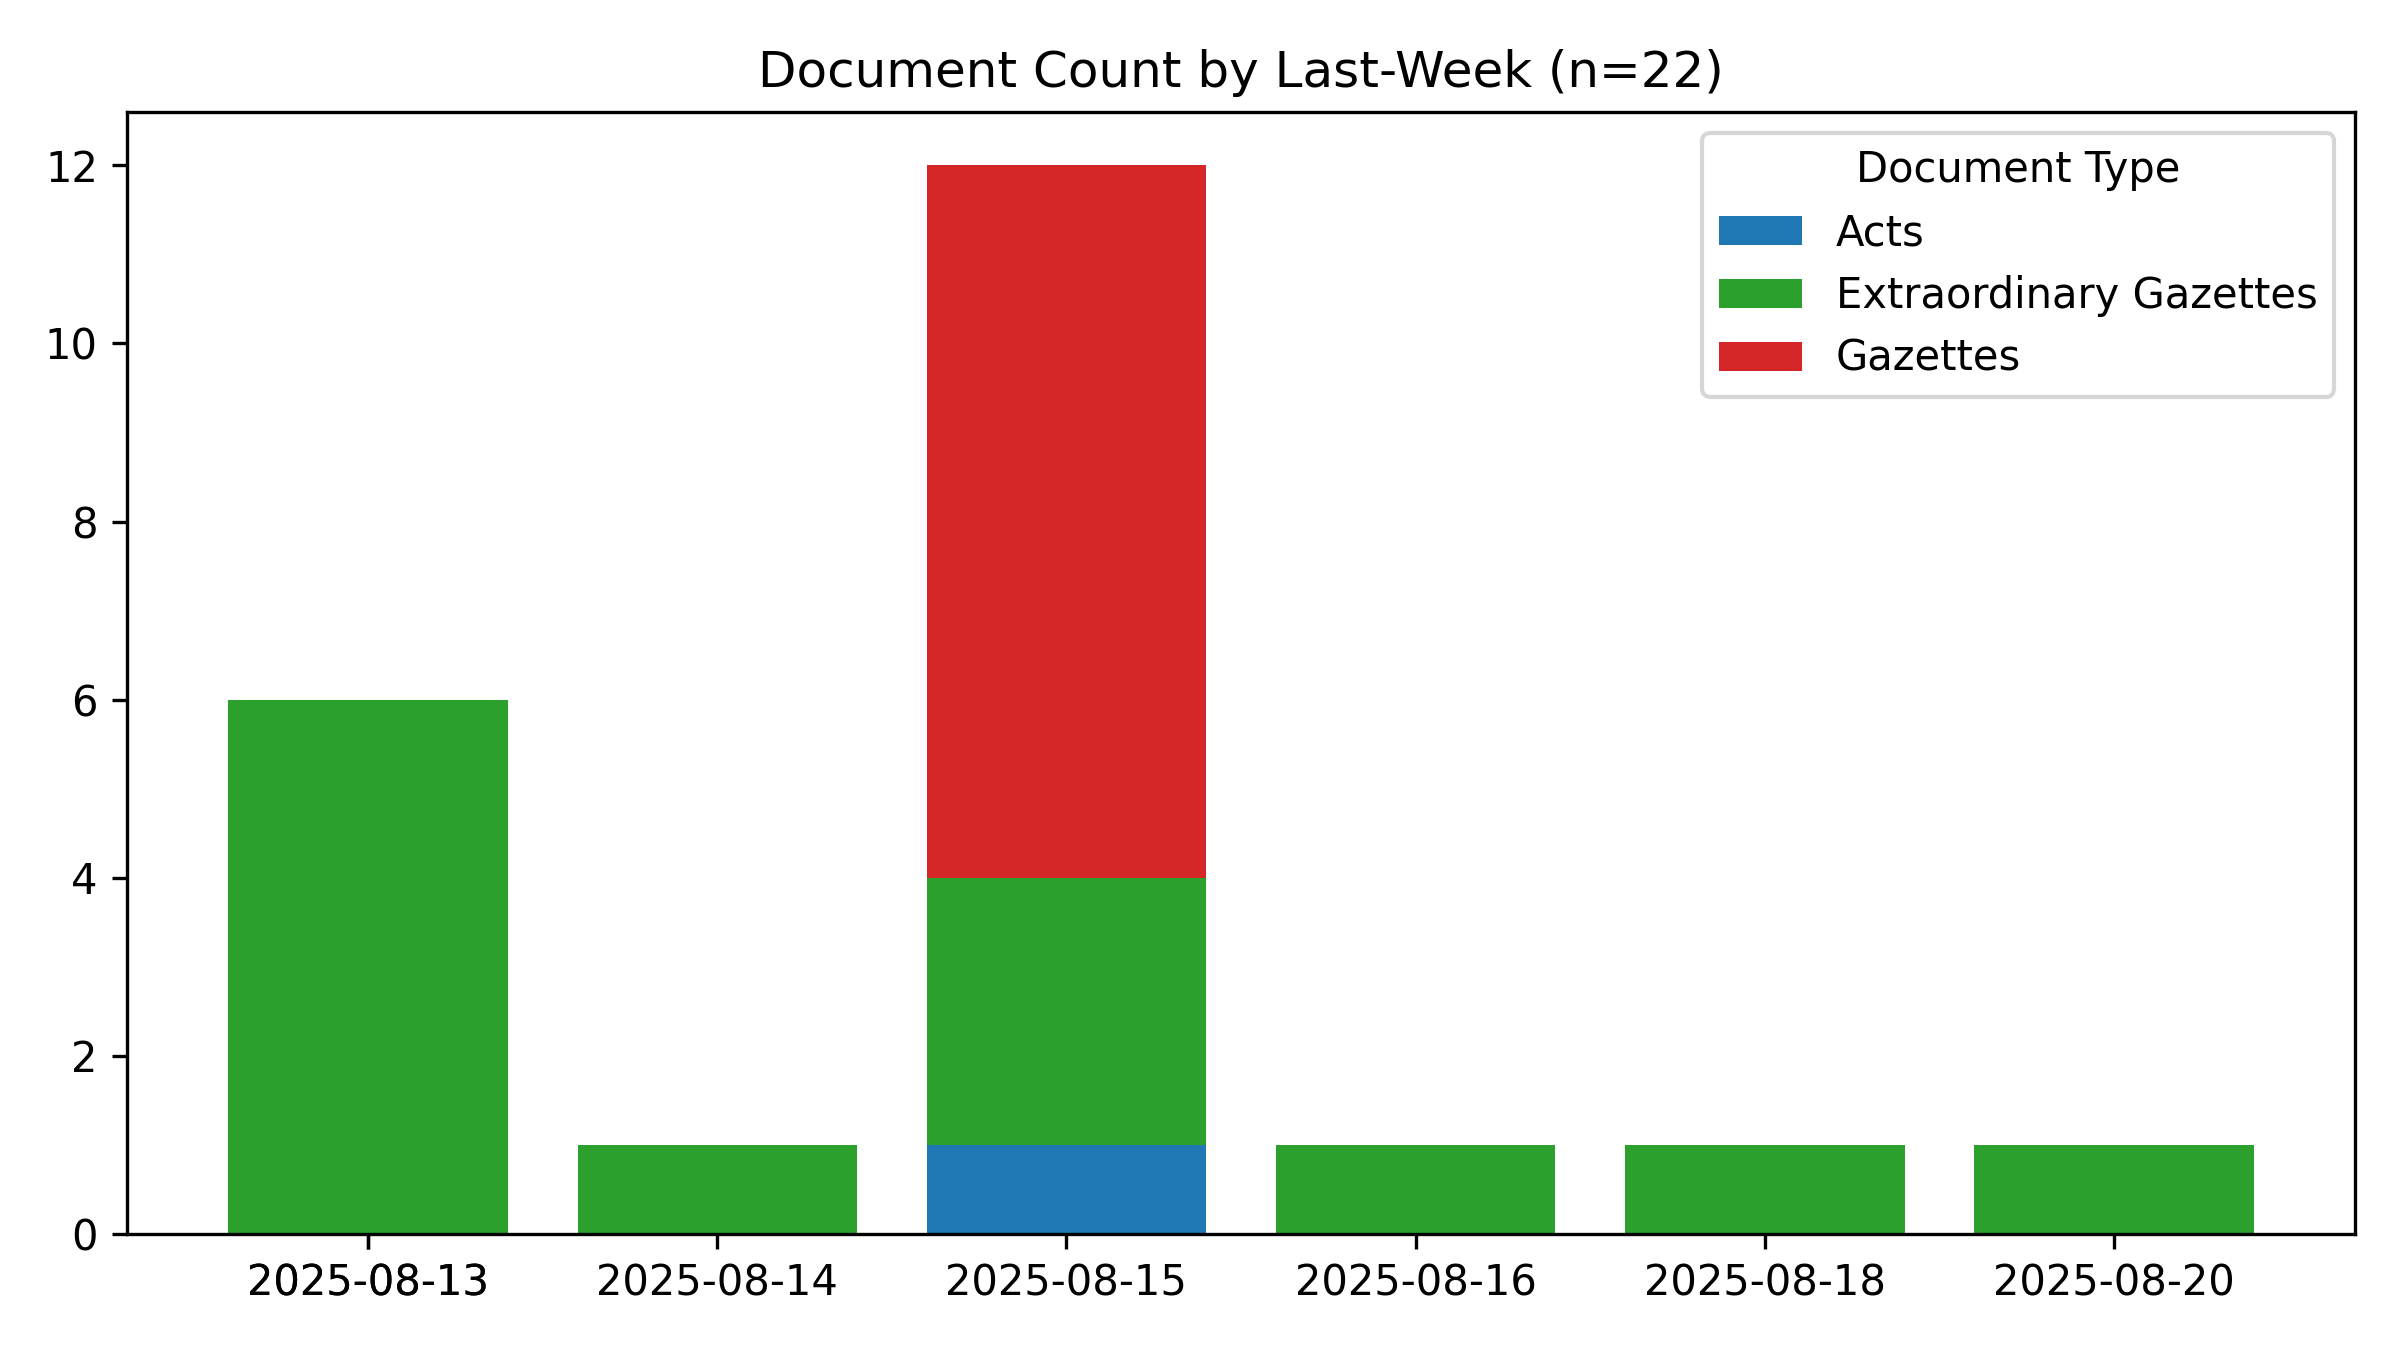
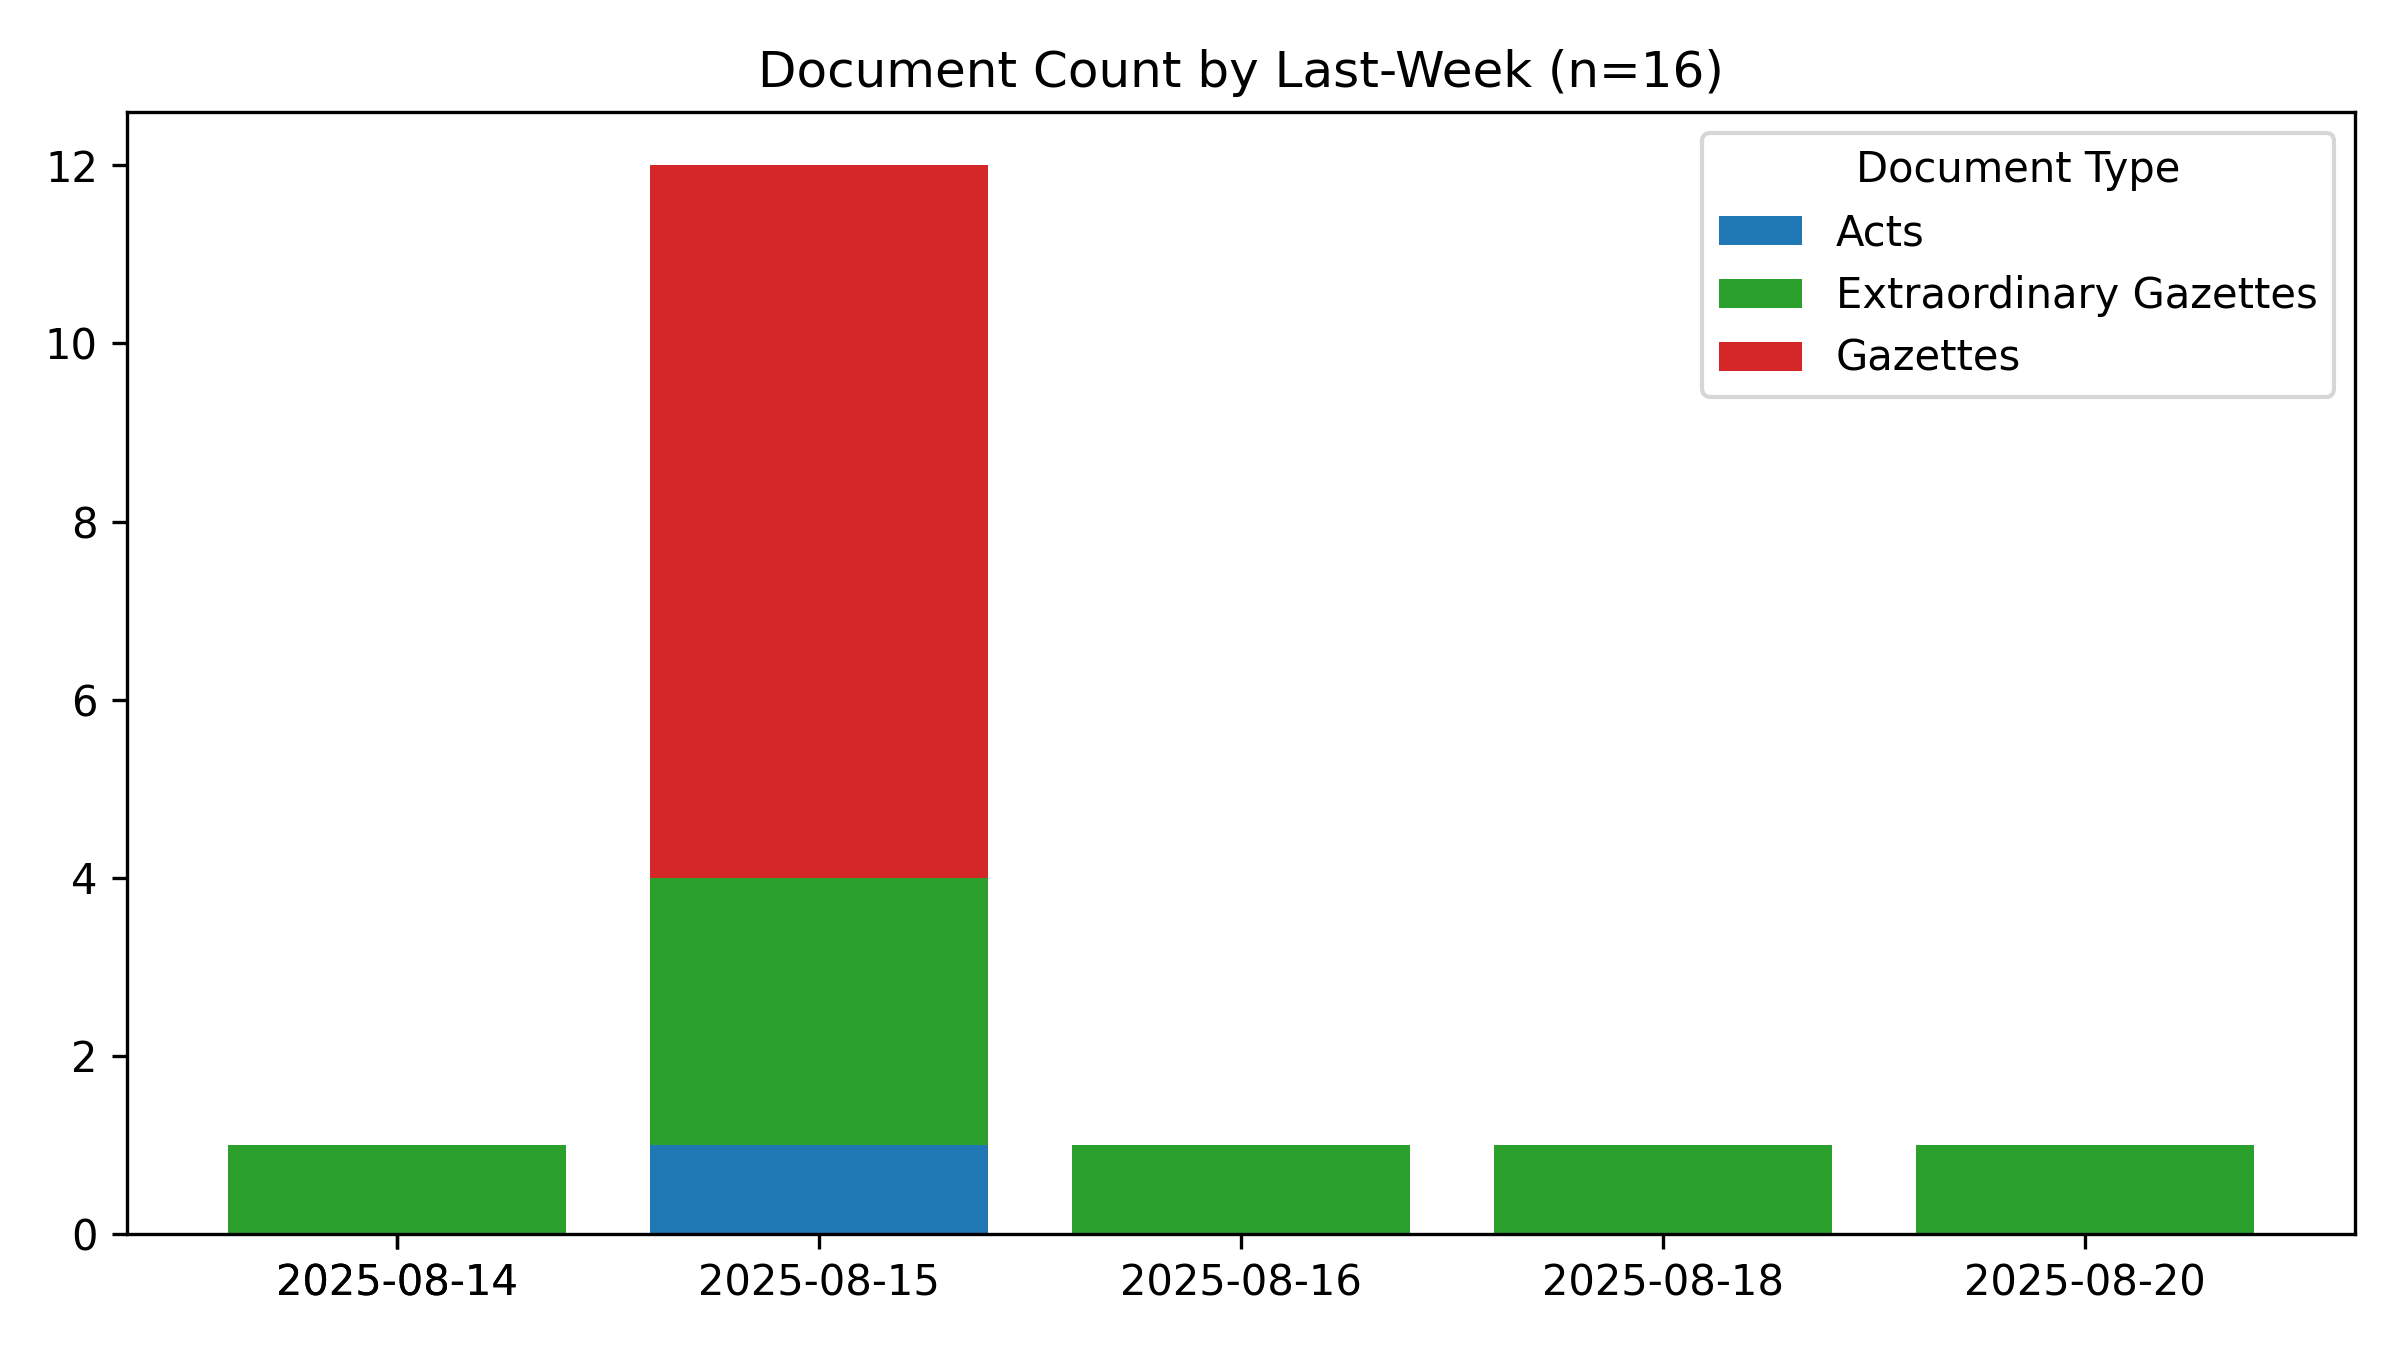
🤖 [build_readme.yml] 2025-08-21-0014

Changed region(s): [[0.0938, 0.1244, 0.9375, 0.9644], [0.0938, 0.9333, 0.2188, 0.9644], [0.6875, 0.0311, 0.7188, 0.0622]]

diff --git a/README.md b/README.md
@@ -1,6 +1,6 @@
 # #SriLanka 🇱🇰 - Legal Documents #Dataset
 
-*Last Updated **2025-08-21 05:13:35**.*
+*Last Updated **2025-08-21 05:44:34**.*
 
 **44,370** documents (24.3 MB), from 1981-01-22 to 2025-08-20.
 
@@ -54,7 +54,7 @@ For best results, use a desktop browser.
 
 ## Recent Documents (Published during the last 7 days)
 
-**22** Documents
+**16** Documents
 
 - 🚨 [2025-08-20] [Presidential- Appointed of the Inspector General of Police](https://github.com/nuuuwan/lk_legal_docs_data/tree/data_2020s/data/extra-gazettes/2025/2450-28)
 - 🚨 [2025-08-18] [Sri Lanka Customs- Rates of Exchange with effect from 18.08.2025 to 24.05.2025](https://github.com/nuuuwan/lk_legal_docs_data/tree/data_2020s/data/extra-gazettes/2025/2450-01)
@@ -72,9 +72,3 @@ For best results, use a desktop browser.
 - 📢 [2025-08-15] [(I) - General](https://github.com/nuuuwan/lk_legal_docs_data/tree/data_2020s/data/gazettes/2025/2025-08-15-i-general)
 - 🏛 [2025-08-15] [Bills of Exchange (Amendment)](https://github.com/nuuuwan/lk_legal_docs_data/tree/data_2020s/data/acts/2025/13-2025)
 - 🚨 [2025-08-14] [2449/44](https://github.com/nuuuwan/lk_legal_docs_data/tree/data_2020s/data/extra-gazettes/2025/2449-44)
-- 🚨 [2025-08-13] [Ministry of Defence - The Navy Act (Chapter 358) Order Under Section 21](https://github.com/nuuuwan/lk_legal_docs_data/tree/data_2020s/data/extra-gazettes/2025/2449-27)
-- 🚨 [2025-08-13] [2449/26](https://github.com/nuuuwan/lk_legal_docs_data/tree/data_2020s/data/extra-gazettes/2025/2449-26)
-- 🚨 [2025-08-13] [Election Ãâ¡ommission - Notice Under Section 66 A (1) (a) Filling of a Vacancy in the office of member of the Matara Pradeshiya Sabha](https://github.com/nuuuwan/lk_legal_docs_data/tree/data_2020s/data/extra-gazettes/2025/2449-25)
-- 🚨 [2025-08-13] [2449/16](https://github.com/nuuuwan/lk_legal_docs_data/tree/data_2020s/data/extra-gazettes/2025/2449-16)
-- 🚨 [2025-08-13] [2449/15](https://github.com/nuuuwan/lk_legal_docs_data/tree/data_2020s/data/extra-gazettes/2025/2449-15)
-- 🚨 [2025-08-13] [Dept. of Local Government- Southern Province - Notice Under Section 66 C (1) Elected Chairman and Vice Chairman Weligama Pradeshiya Sabha](https://github.com/nuuuwan/lk_legal_docs_data/tree/data_2020s/data/extra-gazettes/2025/2449-14)
